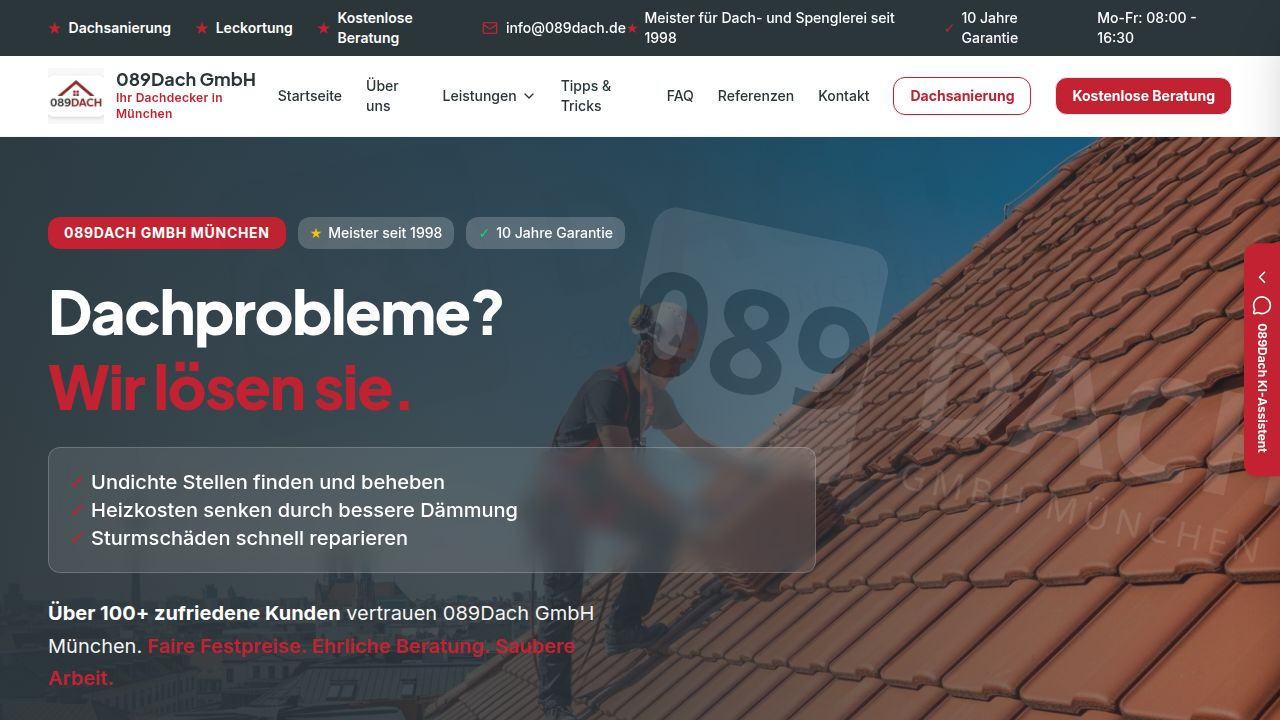
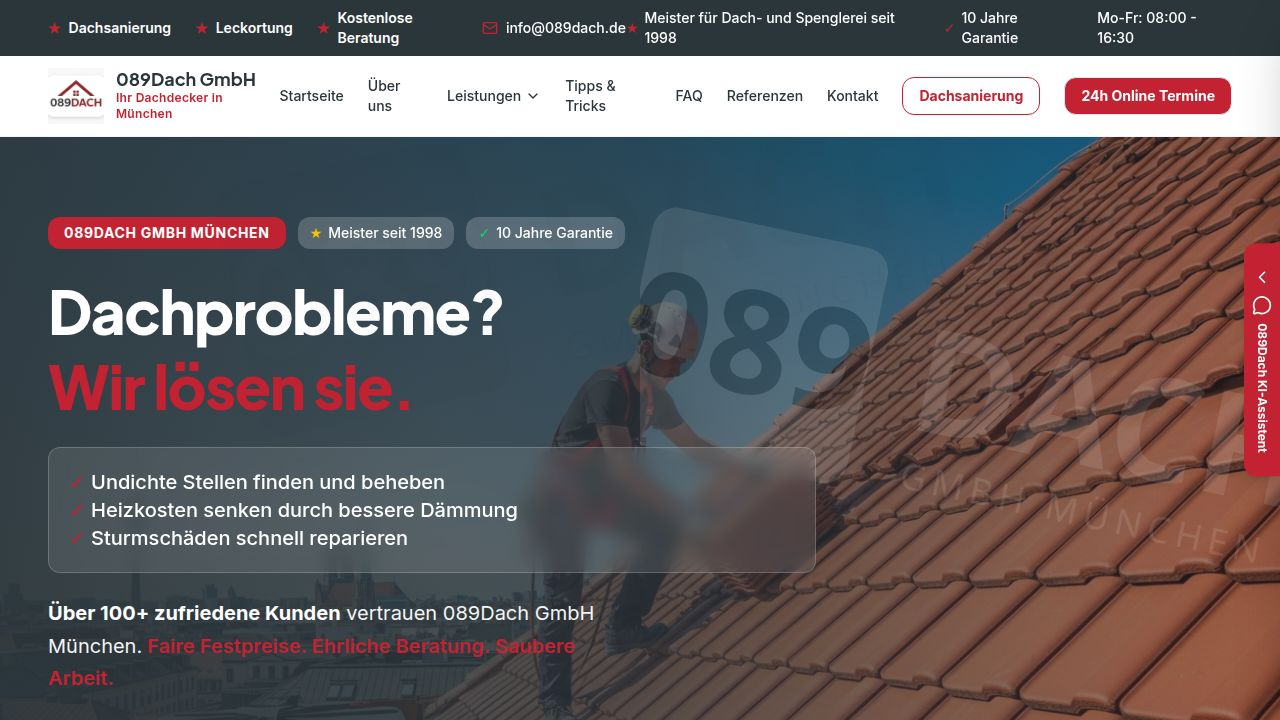
Add appointment scheduling and improve consultation form
Add a new FloatingCTA component for scheduling and enhance the consultation form with fields for object type, urgency, and address.

Replit-Commit-Author: Agent
Replit-Commit-Session-Id: 692a619e-f2d9-418e-9452-b53f34e9e05b
Replit-Commit-Checkpoint-Type: intermediate_checkpoint
Replit-Commit-Event-Id: 416a09b9-228a-4736-bfbd-d24d5af2f295
Replit-Commit-Screenshot-Url: https://storage.googleapis.com/screenshot-production-us-central1/c3cfe89b-bd5d-4dc1-a831-1716e6b0ba0d/692a619e-f2d9-418e-9452-b53f34e9e05b/TYaEFxV
Replit-Helium-Checkpoint-Created: true

diff --git a/client/src/pages/KostenloseBeratung.tsx b/client/src/pages/KostenloseBeratung.tsx
@@ -29,6 +29,8 @@ export default function KostenloseBeratung() {
     email: "",
     phone: "",
     problem: "",
+    urgency: "",
+    objectType: "",
     message: ""
   });
 
@@ -83,7 +85,11 @@ export default function KostenloseBeratung() {
           timing: selectedSlot 
             ? `Gewünschter Termin: ${format(new Date(selectedSlot.start), "dd.MM.yyyy HH:mm", { locale: de })} Uhr`
             : "Beratungsanfrage",
-          details: formData.message || "Keine Details angegeben",
+          details: [
+            formData.objectType && `Objektart: ${formData.objectType}`,
+            formData.urgency && `Dringlichkeit: ${formData.urgency}`,
+            formData.message
+          ].filter(Boolean).join("\n") || "Keine Details angegeben",
           name: formData.name,
           phone: formData.phone,
           email: formData.email,
@@ -99,7 +105,7 @@ export default function KostenloseBeratung() {
         toast.success(successMsg, {
           description: "Wir melden uns zum vereinbarten Termin bei Ihnen."
         });
-        setFormData({ name: "", email: "", phone: "", problem: "", message: "" });
+        setFormData({ name: "", email: "", phone: "", problem: "", objectType: "", urgency: "", message: "" });
         setSelectedSlot(null);
         setSelectedDate(undefined);
         fetchAvailability();
@@ -216,8 +222,44 @@ export default function KostenloseBeratung() {
                   <option value="Dachfenster">Ich möchte ein Dachfenster einbauen</option>
                   <option value="Dämmung">Ich möchte mein Dach dämmen</option>
                   <option value="Wartung">Ich brauche eine Dachwartung</option>
+                  <option value="Sturmschaden">Mein Dach hat einen Sturmschaden</option>
+                  <option value="Rinne/Regenrinne">Rinne oder Regenrinne defekt</option>
+                  <option value="Flachdach">Flachdach-Problem oder -Sanierung</option>
+                  <option value="Gaube">Gaube einbauen oder sanieren</option>
+                  <option value="Schimmel/Feuchtigkeit">Schimmel oder Feuchtigkeit im Dach</option>
                   <option value="Sonstiges">Etwas anderes</option>
                 </select>
+              </div>
+
+              <div className="grid md:grid-cols-2 gap-4">
+                <div className="space-y-2">
+                  <Label htmlFor="objectType">Art des Gebäudes</Label>
+                  <select
+                    id="objectType"
+                    className="w-full h-12 px-3 rounded-md border border-input bg-background text-sm"
+                    value={formData.objectType}
+                    onChange={(e) => setFormData({ ...formData, objectType: e.target.value })}
+                    data-testid="select-beratung-objecttype"
+                  >
+                    <option value="">Bitte wählen...</option>
+                    <option value="Einfamilienhaus">Einfamilienhaus</option>
+                    <option value="Mehrfamilienhaus">Mehrfamilienhaus</option>
+                    <option value="Reihenhaus/Doppelhaushälfte">Reihenhaus / Doppelhaushälfte</option>
+                    <option value="Gewerbe">Gewerbegebäude</option>
+                    <option value="Sonstiges">Sonstiges</option>
+                  </select>
+                </div>
+
+                <div className="space-y-2">
+                  <Label htmlFor="address">Adresse des Objekts (optional)</Label>
+                  <Input 
+                    id="address"
+                    placeholder="Straße, PLZ Ort"
+                    value={formData.address}
+                    onChange={(e) => setFormData({ ...formData, address: e.target.value })}
+                    data-testid="input-beratung-address"
+                  />
+                </div>
               </div>
 
               <div className="space-y-4">

diff --git a/client/src/components/FloatingCTA.tsx b/client/src/components/FloatingCTA.tsx
@@ -1,0 +1,16 @@
+import { Calendar } from "lucide-react";
+import { Link } from "wouter";
+
+export default function FloatingCTA() {
+  return (
+    <Link href="/beratung">
+      <a
+        className="fixed bottom-24 right-4 z-40 bg-primary hover:bg-primary/90 text-white px-4 py-3 rounded-full shadow-lg flex items-center gap-2 transition-all hover:scale-105 animate-pulse hover:animate-none"
+        data-testid="floating-cta-beratung"
+      >
+        <Calendar className="h-5 w-5" />
+        <span className="font-semibold text-sm">24h Online Termine</span>
+      </a>
+    </Link>
+  );
+}

diff --git a/client/src/App.tsx b/client/src/App.tsx
@@ -40,6 +40,7 @@ import CookieConsent from "@/components/CookieConsent";
 import BackgroundLogo from "@/components/BackgroundLogo";
 import { LocalBusinessSchema } from "@/components/SEO";
 import ChatWidget from "@/components/ChatWidget";
+import FloatingCTA from "@/components/FloatingCTA";
 
 function ScrollToTop() {
   const [location] = useLocation();
@@ -102,7 +103,6 @@ function App() {
         <Toaster />
         <Router />
         <ChatWidget />
-        <FloatingCTA />
         <CookieConsent />
       </TooltipProvider>
     </QueryClientProvider>
